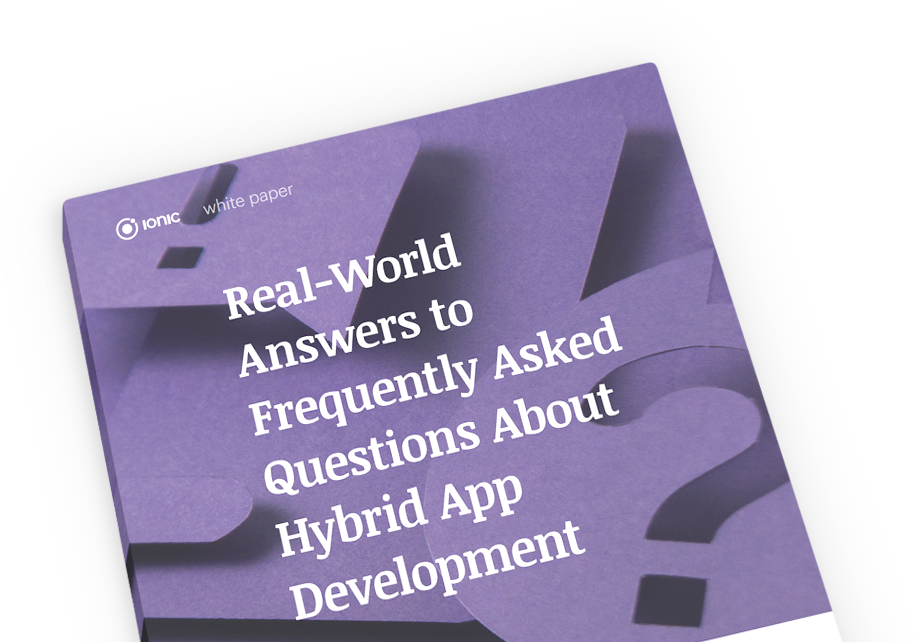
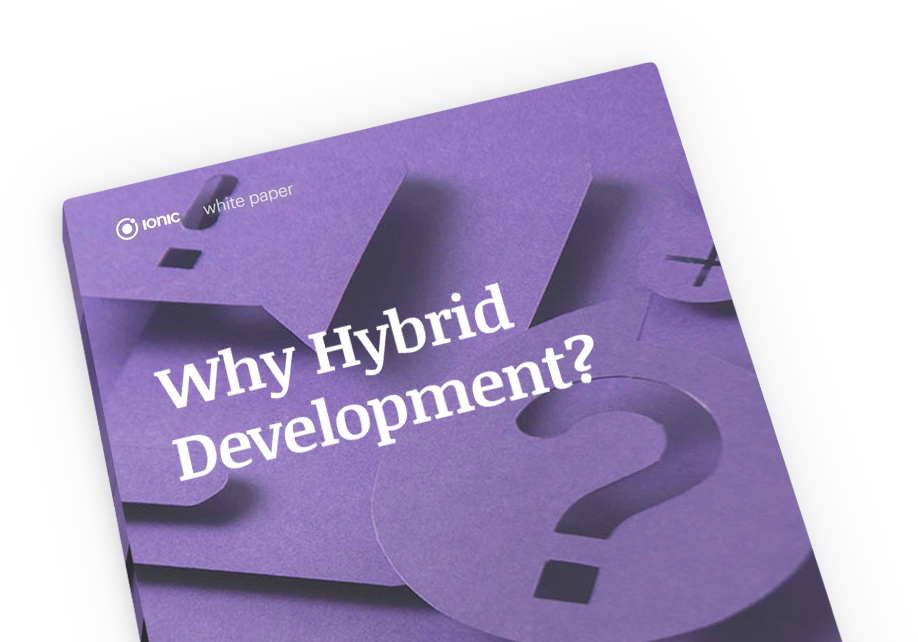
why hybrid tweaks

Changed region(s): [[0.0915, 0.1869, 0.915, 1.0], [0.183, 0.2492, 0.2745, 0.405], [0.0915, 0.4361, 0.2135, 0.4984]]

diff --git a/server/pages/_includes/promos/why-hybrid.html b/server/pages/_includes/promos/why-hybrid.html
@@ -1,10 +1,15 @@
 <section class="promo promo--ebook">
-  <img class="promo__illustration" src="/img/promos/promo-why-hybrid.png"/>
+  <img class="promo__illustration" src="/img/promos/promo-why-hybrid.png?1"/>
   <div class="container">
     <hgroup>
-      <h2>Get our free eBook</h2>
-      <p>Why build a hybrid app? Get answers to the top questions asked about hyrbid app development.</p>
-      <a id="btn-promo-why-hybrid" class="btn blue sm" href="/articles/why-hybrid">Get the eBook</a>
+      <h2>Get our free Guide</h2>
+      <p>
+        Get Real-world answers from teams who chose hybrid app development for
+        their mobile strategy.
+      </p>
+      <a id="btn-promo-why-hybrid"
+         class="btn blue sm"
+         href="/articles/why-hybrid">Get the eBook</a>
     </hgroup>
   </div>
 </section>
